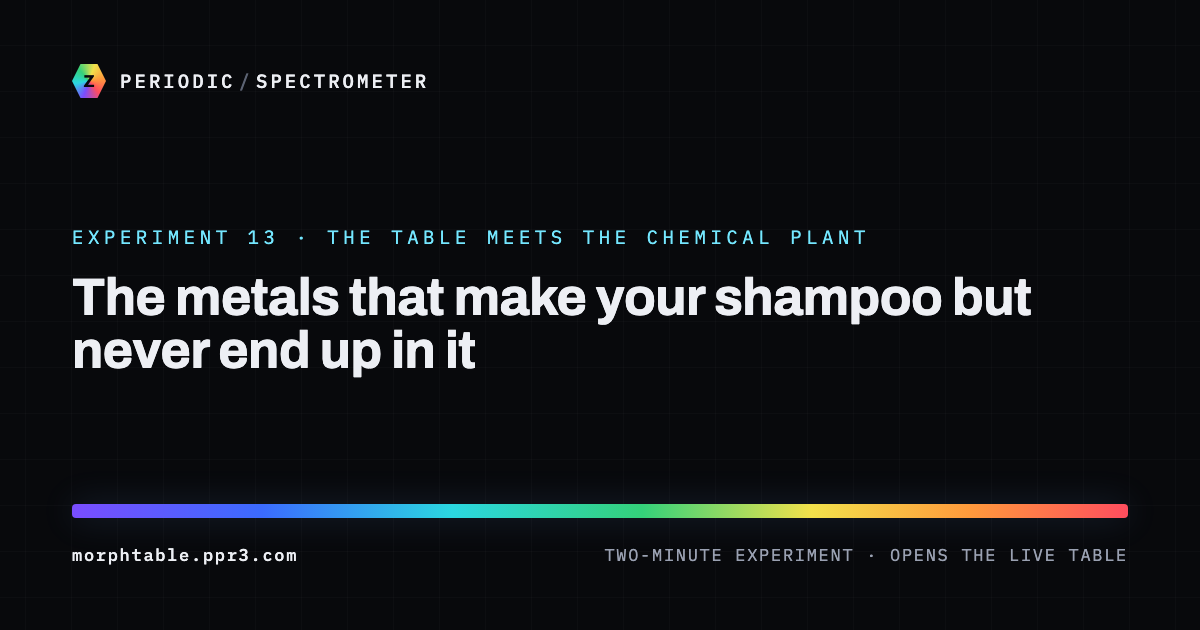
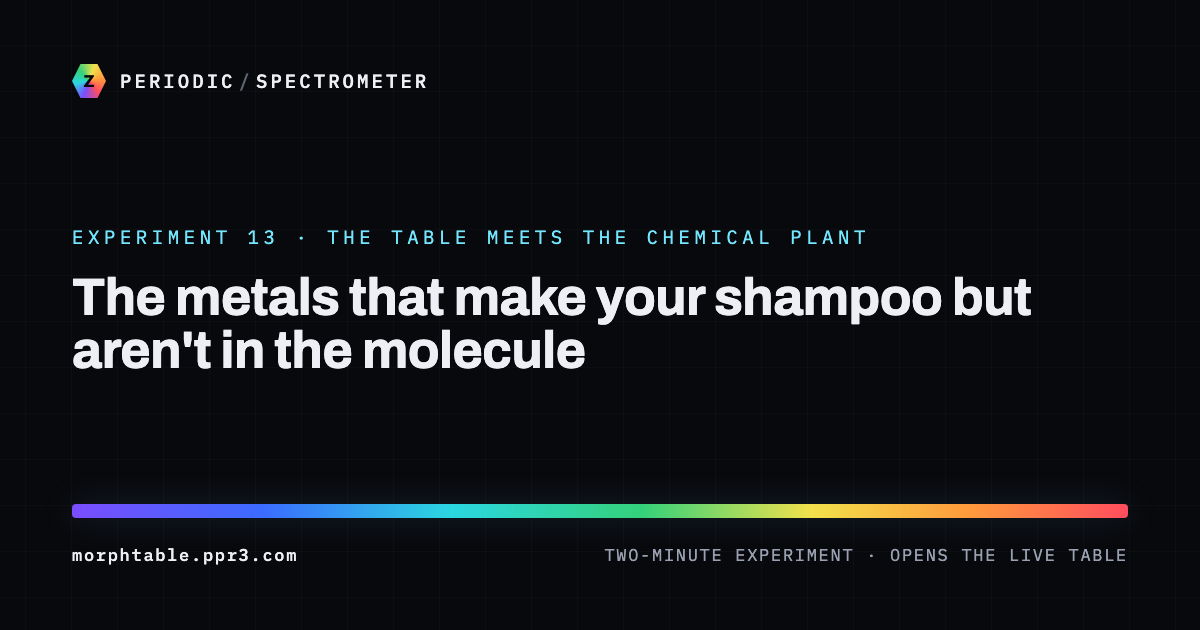
Experiment 13: accuracy pass — 'not in the molecule' (not 'never ends up in it'), alkoxide/K⁺ wording, drop gallium, headline four, N₂ from air; retitle share card
Claude-Session: https://claude.ai/code/session_01Y4m4ywXJcmvRZfB4y4RHw3

Changed region(s): [[0.0617, 0.5127, 0.4933, 0.6032]]

diff --git a/experiments.html b/experiments.html
@@ -337,17 +337,17 @@
   <article class="card exp" id="exp-13">
     <div class="tagrow"><div class="tag">Experiment 13 · the table meets the chemical plant</div>
       <button class="share" type="button" data-exp="13" title="Copy a link to this experiment"><span class="ic">⛓</span>Copy link</button></div>
-    <h3>The metals that make your shampoo but never end up in it</h3>
+    <h3>The metals that make your shampoo but aren't in the molecule</h3>
     <p>Turn over a bottle of shampoo or laundry liquid and you'll find <b>alcohol ethoxylates</b> — the workhorse
     surfactants that lift grease into water. One widely used family, Shell's <b>Neodol</b> alcohols, is made
     from petrochemicals as a stand-in for the "oleo" alcohols pressed from coconut and palm oil. Their trick is
-    being about <b>80% linear with 20% light branching</b> — enough kink to blend easily into a formulation, not
-    so much that it slows biodegradation. Here's the part the table can show. The finished molecule contains only three
+    being about <b>80% linear with 20% light branching</b> — enough kink to blend easily into a formulation. Here's the part the table can show. The finished molecule contains only three
     elements: <b>carbon, hydrogen and oxygen</b>. But it can't be built without a relay of metals, each catalysing
-    one step and then stepping aside. <b>Nickel</b> strings ethylene into long chains; <b>cobalt</b>, fed carbon
+    one step and then stepping aside — here are the headline four. <b>Nickel</b> strings ethylene into long chains; <b>cobalt</b>, fed carbon
     monoxide and hydrogen, adds the alcohol end onto each chain — the step that sets that 80/20 shape;
     <b>silver</b> oxidises ethylene into ethylene oxide; and <b>potassium</b> (as potassium hydroxide) threads those
-    oxide units onto the alcohol. Not an atom of any of the four ends up in the product. Light up all seven and the
+    oxide units onto the alcohol. None of the four is part of the finished molecule — each is recovered or neutralised out at the end of its
+    step, leaving at most traces. Light up all seven and the
     split is stark: the <i>ingredients</i> are light nonmetals from the top two rows (hydrogen top-left, carbon and oxygen top-right); the <i>makers</i>
     are d-block metals from the middle (plus one alkali metal), whose easily reshuffled outer electrons let them
     hold a molecule, rearrange it and let go. That is why the transition metals are the table's professional
@@ -362,13 +362,13 @@
     metals that actually do the bond-making land almost on top of each other: cobalt <b>1.88</b>, nickel
     <b>1.91</b>, silver <b>1.93</b>. That narrow band is what "hold a molecule and let it go" looks like as a
     number — neither hoarding electrons like oxygen nor dumping them like potassium. It also singles potassium
-    out: it isn't catalysing with its own electrons at all; the <i>hydroxide</i> does the work and K is just the
-    counter-ion. Now light up <i>everyone</i> between 1.8 and 2.0 — thirteen elements. Copper (1.90) and iron
+    out: it isn't catalysing with its own electrons — the base it supplies opens each ethylene-oxide ring, and
+    K⁺ mostly stands by. Now light up <i>everyone</i> between 1.8 and 2.0 — thirteen elements. Copper (1.90) and iron
     (1.83) play no part in making detergent, but they are the catalysts of two even bigger processes: iron turns
-    air into ammonia (Haber–Bosch), copper turns synthesis gas into methanol; nickel, also here, hardens
+    nitrogen from the air into ammonia (Haber–Bosch), copper turns synthesis gas into methanol; nickel, also here, hardens
     vegetable oil into margarine. So the band isn't a coincidence about Shell's four — it is the neighbourhood the
     chemical industry's workhorse catalysts come from. But keep the table's honest voice: silicon (1.90),
-    gallium, lead, technetium and polonium share the same band and catalyse nothing. Living here is something the
+    lead, technetium and polonium share the same band and have no famous process to their name. Living here is something the
     catalysts have in common, not a test that picks them.</p>
     <a class="try alt" href="index.html?highlight=C,H,O,Ni,Co,Ag,K&amp;label=Detergent%20alcohols%3A%20the%20catalysts%20share%20a%20band&amp;sel=27&amp;color=en"><span class="ar">▸</span>Now map electronegativity</a>
     <a class="try" href="index.html?highlight=Fe,Co,Ni,Cu,Ag,Re,Hg,Sn,Si,Ga,Pb,Tc,Po&amp;label=Electronegativity%201.8%E2%80%932.0%3A%20the%20catalysts%27%20neighbourhood&amp;sel=26&amp;color=en"><span class="ar">▸</span>Light the whole band</a>

diff --git a/e/13.html b/e/13.html
@@ -3,20 +3,20 @@
 <head>
 <meta charset="UTF-8" />
 <meta name="viewport" content="width=device-width, initial-scale=1.0" />
-<title>The metals that make your shampoo but never end up in it — Experiment 13 · the table meets the chemical plant — The Morphing Periodic Table</title>
+<title>The metals that make your shampoo but aren't in the molecule — Experiment 13 · the table meets the chemical plant — The Morphing Periodic Table</title>
 <meta name="description" content="Turn over a bottle of shampoo or laundry liquid and you&#x27;ll find alcohol ethoxylates — the workhorse surfactants that lift grease into water." />
 <link rel="canonical" href="https://morphtable.ppr3.com/experiments" />
 <meta property="og:type" content="website" />
 <meta property="og:site_name" content="The Morphing Periodic Table" />
-<meta property="og:title" content="The metals that make your shampoo but never end up in it" />
+<meta property="og:title" content="The metals that make your shampoo but aren&#x27;t in the molecule" />
 <meta property="og:description" content="Experiment 13 · the table meets the chemical plant. Turn over a bottle of shampoo or laundry liquid and you&#x27;ll find alcohol ethoxylates — the workhorse surfactants that lift grease into water." />
 <meta property="og:url" content="https://morphtable.ppr3.com/e/13" />
 <meta property="og:image" content="https://morphtable.ppr3.com/og/e13.png" />
 <meta property="og:image:width" content="1200" />
 <meta property="og:image:height" content="630" />
-<meta property="og:image:alt" content="Card: Experiment 13 · the table meets the chemical plant — The metals that make your shampoo but never end up in it" />
+<meta property="og:image:alt" content="Card: Experiment 13 · the table meets the chemical plant — The metals that make your shampoo but aren&#x27;t in the molecule" />
 <meta name="twitter:card" content="summary_large_image" />
-<meta name="twitter:title" content="The metals that make your shampoo but never end up in it" />
+<meta name="twitter:title" content="The metals that make your shampoo but aren&#x27;t in the molecule" />
 <meta name="twitter:description" content="Experiment 13 · the table meets the chemical plant. Turn over a bottle of shampoo or laundry liquid and you&#x27;ll find alcohol ethoxylates — the workhorse surfactants that lift grease into water." />
 <meta name="twitter:image" content="https://morphtable.ppr3.com/og/e13.png" />
 <meta http-equiv="refresh" content="0; url=/experiments#exp-13" />
@@ -168,7 +168,7 @@
 <div class="wrap">
   <section class="masthead">
     <div class="eyebrow">Experiment 13 · the table meets the chemical plant</div>
-    <h1>The metals that make your shampoo but never end up in it</h1>
+    <h1>The metals that make your shampoo but aren't in the molecule</h1>
     <p class="lede">Turn over a bottle of shampoo or laundry liquid and you&#x27;ll find alcohol ethoxylates — the workhorse surfactants that lift grease into water.</p>
     <div class="ribbon" aria-hidden="true"></div>
   </section>
